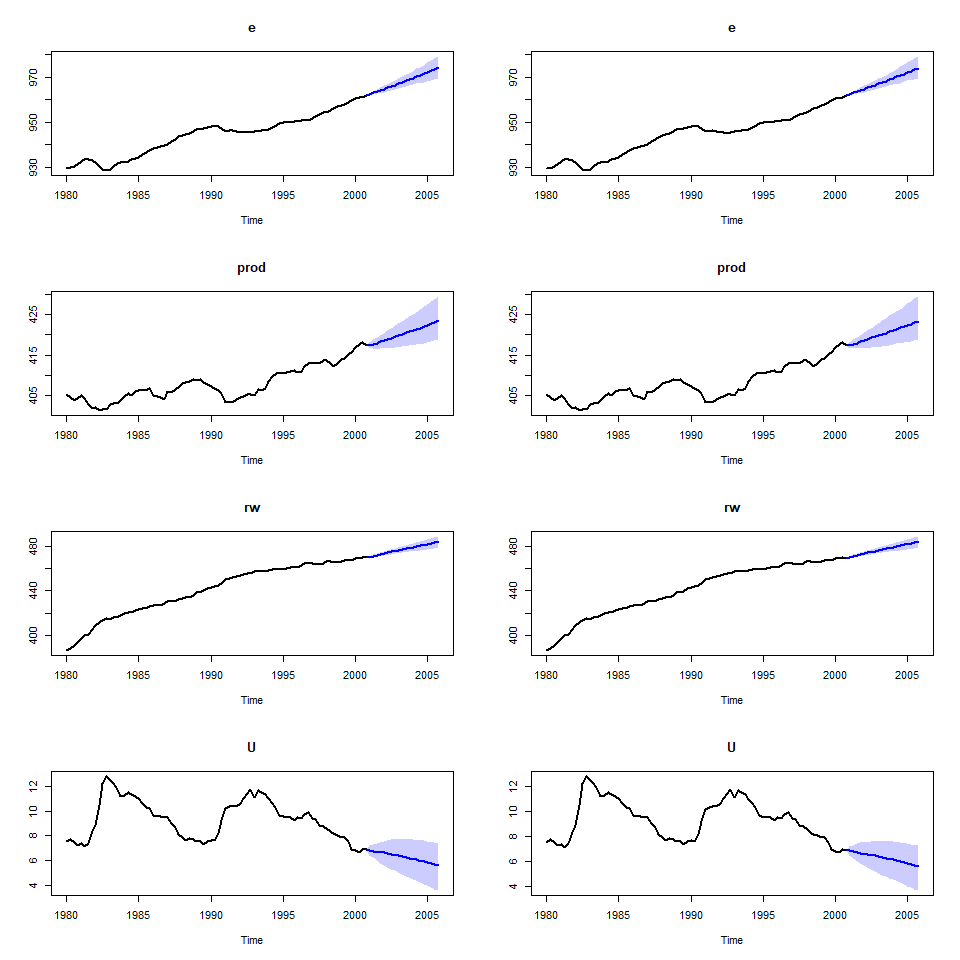
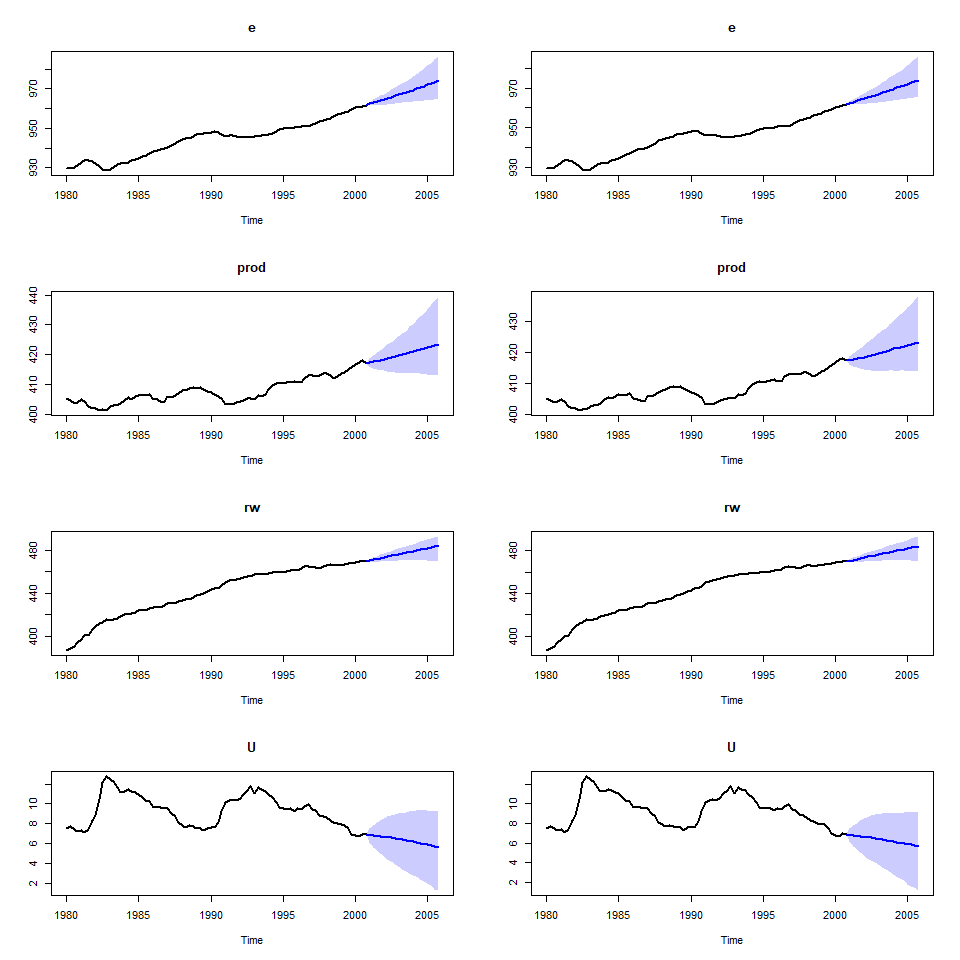
dsada

diff --git a/README.md b/README.md
@@ -169,37 +169,37 @@ round(bvar_obj1$fit$Algorithm2$Gamma_posterior_mean,2)
 #>  [4,] -0.04  0.09  0.02  0.98
 #>  [5,] -0.19 -0.02  0.08  0.04
 #>  [6,]  0.00 -0.07 -0.04  0.00
-#>  [7,]  0.01 -0.02 -0.05  0.00
-#>  [8,]  0.05  0.10 -0.08 -0.04
+#>  [7,]  0.01 -0.02 -0.05  0.01
+#>  [8,]  0.05  0.10 -0.07 -0.04
+#>  [9,] -0.02  0.00  0.03  0.05
+#> [10,]  0.00 -0.03  0.01  0.00
+#> [11,]  0.01  0.00  0.03  0.00
+#> [12,]  0.04  0.05 -0.02 -0.01
+#> [13,]  0.01  0.00  0.01  0.03
+#> [14,]  0.00 -0.02  0.00  0.00
+#> [15,]  0.01  0.01  0.06  0.00
+#> [16,]  0.02  0.02  0.00 -0.02
+#> [17,] -0.08  1.88  0.56  2.91
+#> [18,]  0.00  0.05  0.04  0.00
+round(bvar_obj2$fit$Algorithm2$Gamma_posterior_mean,2)
+#>        [,1]  [,2]  [,3]  [,4]
+#>  [1,]  1.17  0.08  0.00 -0.10
+#>  [2,]  0.09  1.03 -0.13 -0.04
+#>  [3,] -0.03 -0.05  0.87  0.00
+#>  [4,] -0.04  0.09  0.02  0.98
+#>  [5,] -0.19 -0.02  0.08  0.04
+#>  [6,]  0.00 -0.07 -0.04  0.00
+#>  [7,]  0.01 -0.02 -0.05  0.01
+#>  [8,]  0.05  0.11 -0.08 -0.04
 #>  [9,] -0.03  0.00  0.03  0.05
 #> [10,]  0.00 -0.03  0.01  0.00
 #> [11,]  0.01  0.00  0.03  0.00
 #> [12,]  0.04  0.05 -0.02 -0.01
 #> [13,]  0.01  0.00  0.01  0.03
 #> [14,]  0.00 -0.02  0.00  0.00
-#> [15,]  0.01  0.01  0.05  0.00
-#> [16,]  0.02  0.02  0.00 -0.02
-#> [17,]  0.01  1.70  1.07  3.04
-#> [18,]  0.00  0.06  0.04  0.00
-round(bvar_obj2$fit$Algorithm2$Gamma_posterior_mean,2)
-#>        [,1]  [,2]  [,3]  [,4]
-#>  [1,]  1.17  0.08  0.00 -0.10
-#>  [2,]  0.09  1.03 -0.13 -0.04
-#>  [3,] -0.03 -0.05  0.87  0.00
-#>  [4,] -0.04  0.09  0.03  0.98
-#>  [5,] -0.20 -0.02  0.08  0.04
-#>  [6,]  0.00 -0.07 -0.04  0.00
-#>  [7,]  0.01 -0.02 -0.05  0.01
-#>  [8,]  0.05  0.11 -0.08 -0.04
-#>  [9,] -0.03  0.00  0.03  0.05
-#> [10,]  0.00 -0.03  0.01  0.00
-#> [11,]  0.01  0.00  0.03 -0.01
-#> [12,]  0.04  0.05 -0.02 -0.01
-#> [13,]  0.02  0.00  0.01  0.03
-#> [14,]  0.00 -0.02  0.00  0.00
 #> [15,]  0.01  0.01  0.06  0.00
 #> [16,]  0.02  0.02  0.00 -0.02
-#> [17,]  0.03  1.92  0.46  3.25
+#> [17,] -0.08  3.30  1.73  3.35
 #> [18,]  0.00  0.06  0.05  0.00
 
 round(bvar_obj1$fit$Algorithm2$Psi_posterior_mean,2)
@@ -212,17 +212,17 @@ round(bvar_obj2$fit$Algorithm2$Psi_posterior_mean,2)
 #>       [,1] [,2]  [,3]  [,4]
 #> [1,]  0.17 0.00 -0.09 -0.11
 #> [2,]  0.00 0.42  0.00  0.00
-#> [3,] -0.09 0.00  0.56  0.07
+#> [3,] -0.09 0.00  0.57  0.07
 #> [4,] -0.11 0.00  0.07  0.11
 
 par(mfcol = c(4, 2))
 fcst1 <- forecast(bvar_obj1,
-                 ci = 0.68,
+                 ci = 0.95,
                  fcst_type = "median",
                  show_all = TRUE)
 
 fcst2 <- forecast(bvar_obj2,
-                 ci = 0.68,
+                 ci = 0.95,
                  fcst_type = "median",
                  show_all = TRUE)
 ```